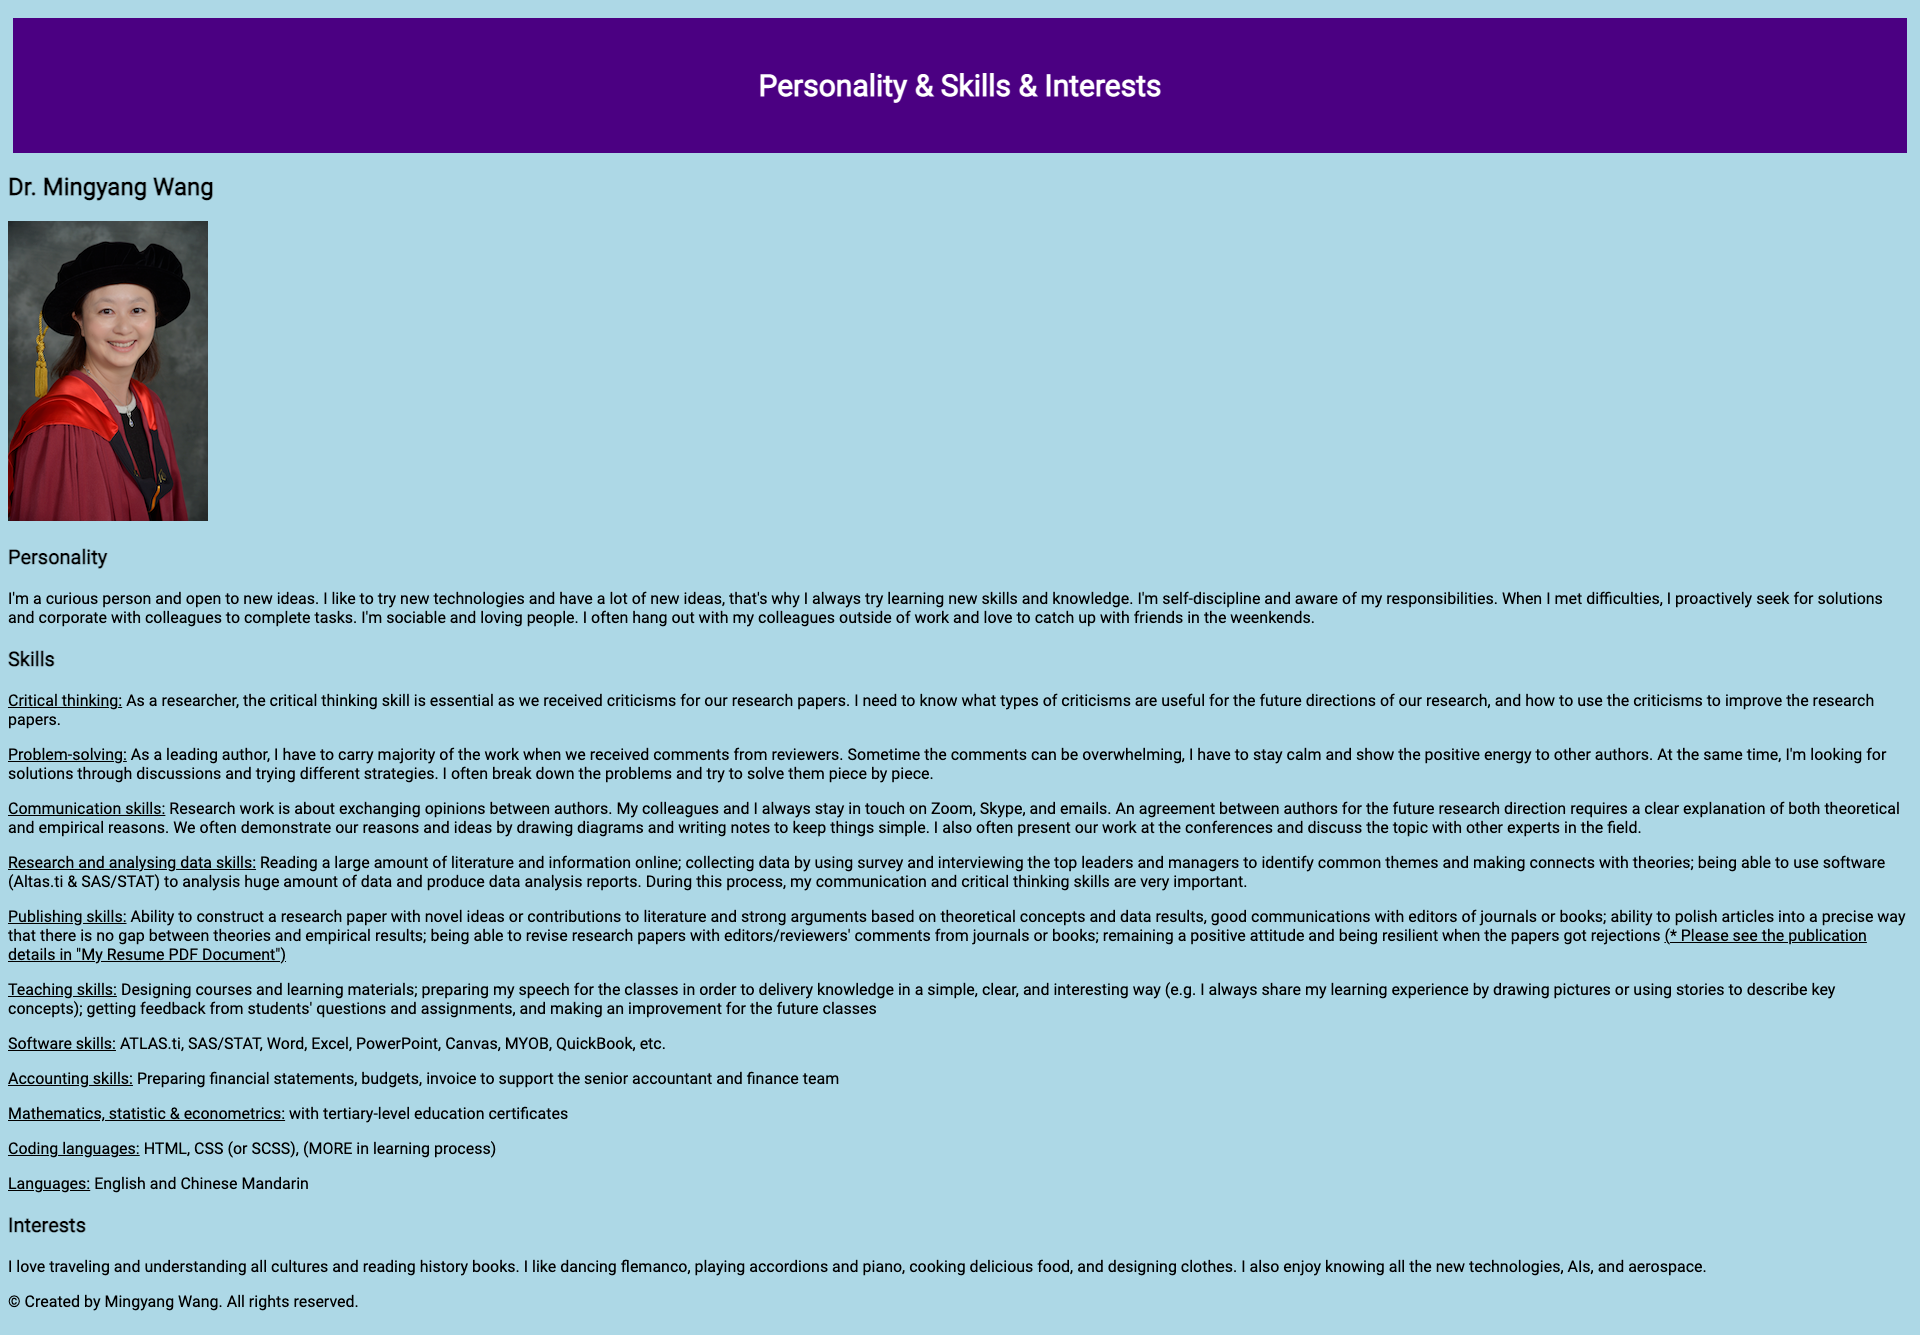
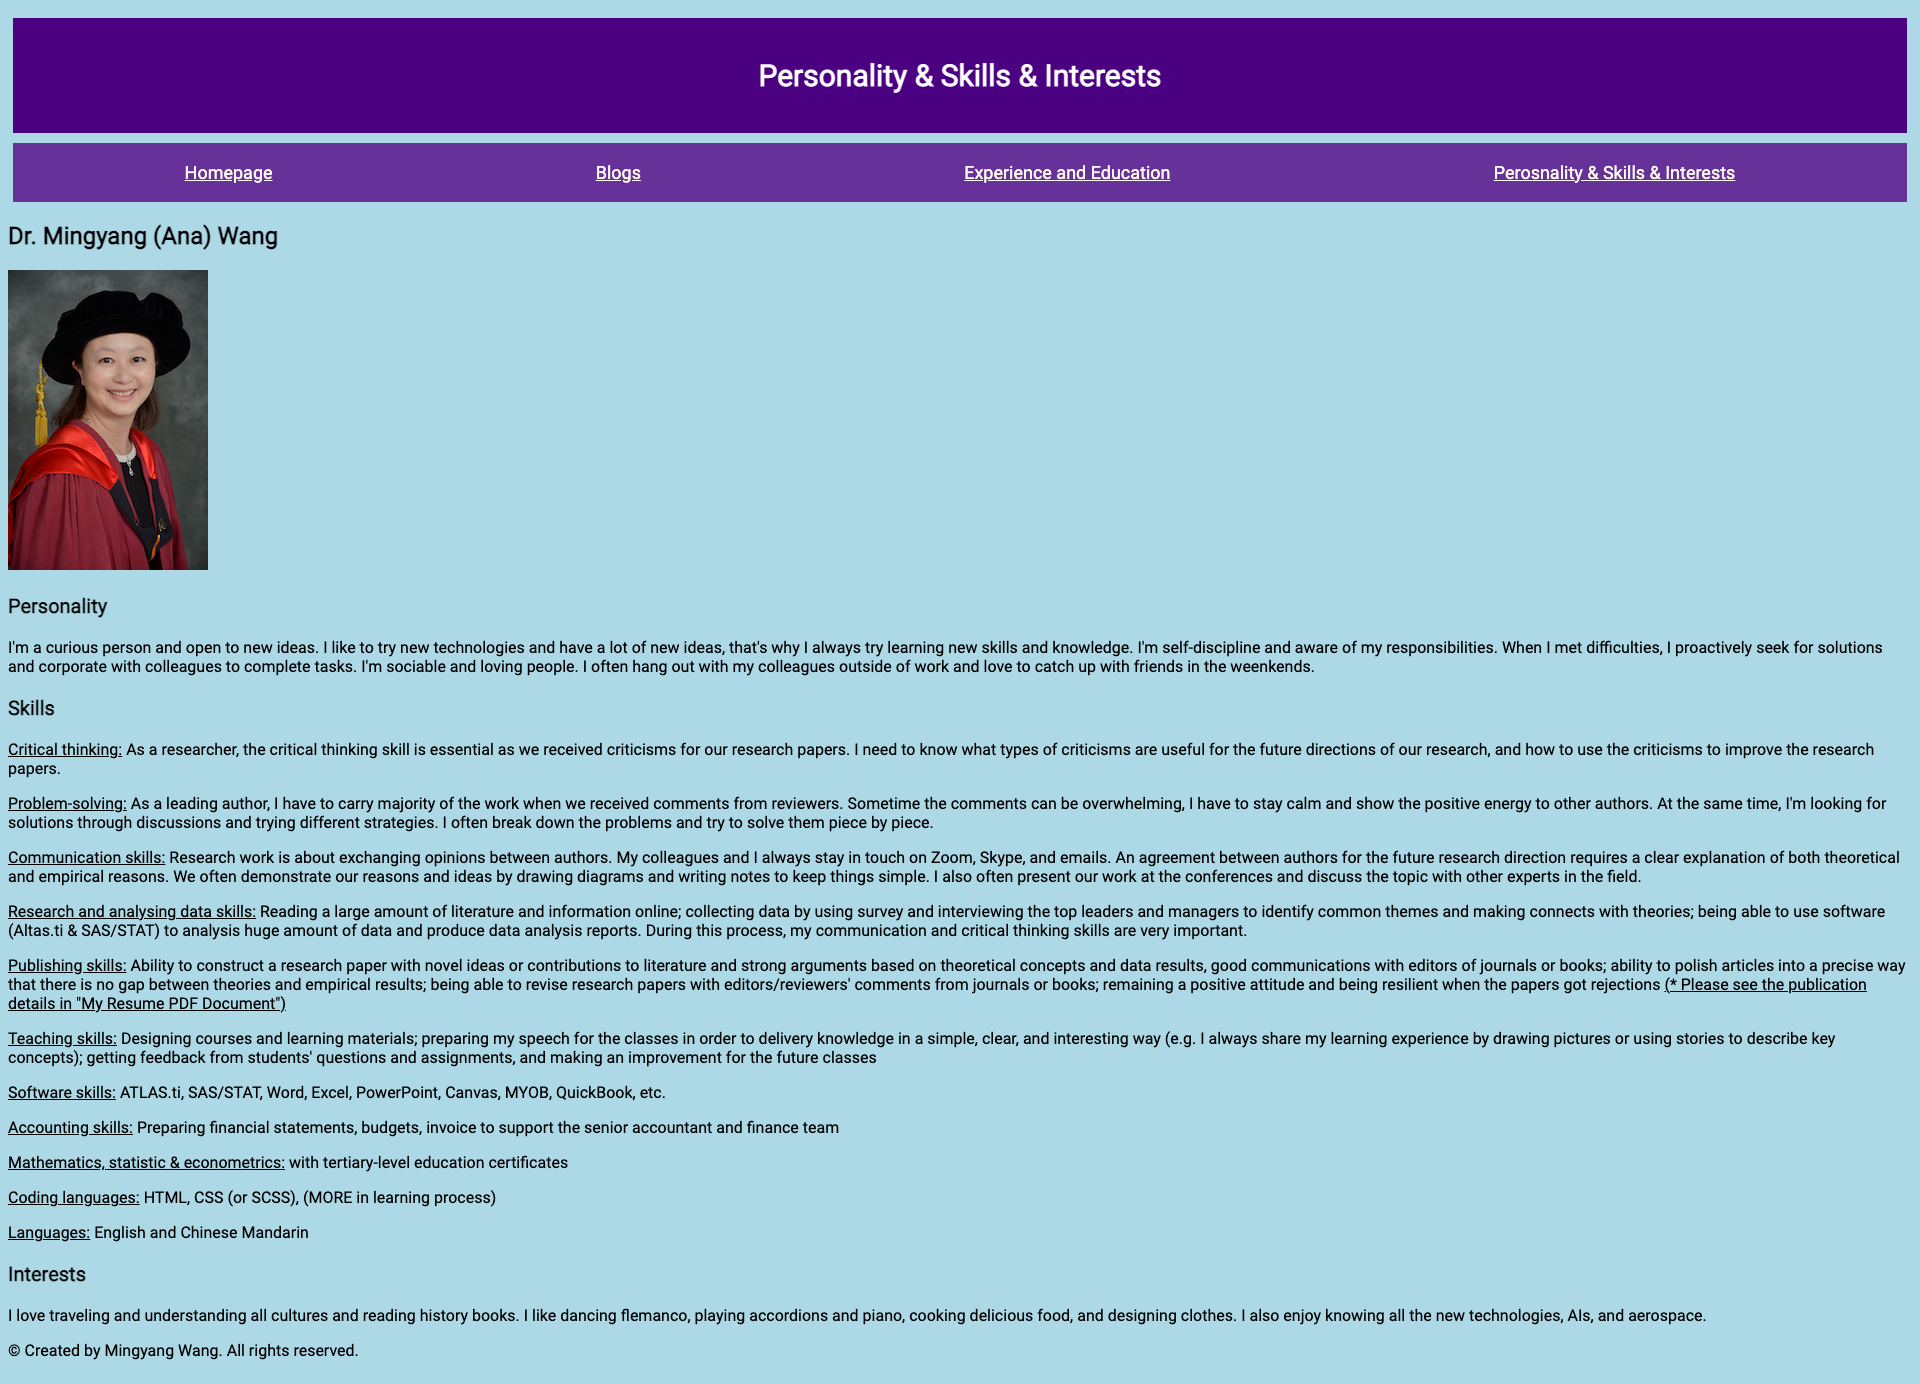
Add files via upload

diff --git a/ExperienceandEducation.html b/ExperienceandEducation.html
@@ -21,12 +21,19 @@
 </head>
 
 <body>
-
   <h1 class="header">Experience and Education</h1>
-  <h2>Dr. Mingyang Wang</h2>
+  <nav class="topnav">
+    <a href="portfoliohomepage.html">Homepage</a>
+    <a href="Blog.html">Blogs</a>
+    <a href="ExperienceandEducation.html">Experience and Education</a>
+    <a href="PersonalitySkillsInterests.html">Perosnality & Skills & Interests</a>
+  </nav>
+  <!-- These links help to go back to homepage or other webpages. -->
+
+  <h2>Dr. Mingyang (Ana) Wang</h2>
   <picture>
     <source srcset="MingyangWang.png" media="(min-width: 801px)"/>
-     <img alt="Mingyang Wang" src="MingyangWangsmall.png"/>
+     <img class="portrait" alt="Mingyang Wang" src="MingyangWangsmall.png"/>
    </picture>
    <!-- I created an image with a responsive layout. And I also used "alt" attribute to specify an alternate text for an image, if the image cannot be displayed. -->
  
@@ -57,7 +64,7 @@
        <h5>Strategic Management</h5>
         <p class="paragraph" tabindex="0">Thesis Title: “The Role of Intuitive and Analytical Decision-Making in Entrepreneurial Opportunity Recognition”
           <br>
-          The purpose of this thesis was to examine how entrepreneurial firms combine the use of intuitive and analytical decision-making to recognize opportunities. It was a multiple-case study using an interpretive paradigm. Forty-eight interviews were conducted in eight software companies, and analysed by comparing founders’ and managers’ decision-making processes. The grounded theoretical model of dynamic intuitive-analytic capabilities extends the literatures of dynamic capabilities, intuition, product innovation, and entrepreneurial opportunity, and helps to answer one of the most commonly asked questions in the field of entrepreneurship: why some entrepreneurial companies are more successful than others.
+          The purpose of this thesis was to examine how entrepreneurial firms combine the use of intuitive and analytical decision-making to recognize opportunities. It was a multiple-case study using an interpretive paradigm. Forty-eight interviews were conducted in eight software companies, and analysed by comparing founders’ and managers’ decision-making processes. The grounded theoretical model of dynamic intuitive-analytic capabilities extends the literatures of dynamic capabilities, intuition, dual process theory, product innovation, and entrepreneurial opportunity, and helps to answer one of the most commonly asked questions in the field of entrepreneurship: why some entrepreneurial companies are more successful than others.
         </p>
 
 

diff --git a/portfoliohomepage.css b/portfoliohomepage.css
@@ -15,15 +15,20 @@ body {
   body {
     font-size: 20px;
   }
+/* Anytime the screen is underneath of 600px width, the font-size will be 20px */
+
   .topnav a {
     width: 100%;
     float: none;
   }
+/* Anytime the screen is underneath of 600px width, the links of the navigation bar will become a column line. */
 
   .sidebar {
     max-width: 150px;
     height: 100%;
+    margin-left: 100px;
   }
+/* Anytime the screen is underneath of 600px width,  the sidebar will change the shape and to the margin-left 100px. */
 
   .sidebar a {
     width: 100%;
@@ -31,8 +36,24 @@ body {
     float: none;
     margin-left: 60px;
   }
+/* Anytime the screen is underneath of 600px width, the icon links of the sidebar will be vertical. */
+
+  .portrait{
+    margin-left: 150px;
+  }
+/* Anytime the screen is underneath of 600px width, the image will change to the margin-left 150px. */
+
+  h1{
+    margin-left: 100px;
+  }
+/* Anytime the screen is underneath of 600px width, the heading 1 will change to the margin-left 100px. */
+
+  h2{
+    margin-left: 70px;
+  }
+  /* Anytime the screen is underneath of 600px width, the heading 2 will change to the margin-left 70px. */
 }
-/* Anytime the screen is underneath of 600px width, the font-size will be 20px, the links in the top navigation bar will become a column line, the sidebar will change the shape and the icon links will be vertical. */
+
 
 .topnav {
   background-color: GoldenRod;
@@ -72,7 +93,6 @@ body {
   flex-wrap: wrap;
   justify-content: space-around;
   align-items: center;
-  margin: 25px 30px;
   padding: 5px 10px;
 }
 /* I created a sidebar for my email, GitHub, and Linkedin links and used Flexbox to produce a responsive layout */

diff --git a/ExperienceandEducation.css b/ExperienceandEducation.css
@@ -20,12 +20,28 @@ body {
   body {
     font-size: 20px;
   }
+/* Anytime the screen is underneath of 600px width, the font-size will be 20px */
+
+  .topnav a {
+    width: 100%;
+    float: none;
+  }
+/* Anytime the screen is underneath of 600px width, the links of the navigation bar will become a column line. */
+
+  .portrait{
+    margin-left: 150px;
+  }
+/* Anytime the screen is underneath of 600px width, the image will change to the margin-left 150px. */
+
+  h2{
+    margin-left: 70px;
+  }
+  /* Anytime the screen is underneath of 600px width, the heading 2 will change to the margin-left 70px. */
 }
-/* anytime the screen is underneath of 600px width, the font-size will be 20px */
 
 .header {
-  padding: 50px;
-  background-color: Olive;
+  padding: 40px;
+  background-color: darkgreen;
   color: white;
   font-size: 30px;
   display: flex;
@@ -48,3 +64,32 @@ body {
   text-align: left;
 }
 /* I identified the color and text-align for the copyright symbol */
+
+.topnav {
+  background-color: darkolivegreen;
+  overflow: auto;
+  display: flex;
+  flex-direction: row;
+  flex-wrap: wrap;
+  justify-content: space-around;
+  align-items: center;
+  margin: 10px 5px;
+  padding: 5px 10px;
+}
+/* I added a "darkolivegreen" background color and used Flexbox to the top navigation bar. */
+
+.topnav a {
+  float: left;
+  color: FloralWhite;
+  text-align: center;
+  padding: 14px 16px;
+  font-size: 18px;
+}
+/* I added those styles to the links inside the navigation bar. */
+
+.topnav a:hover {
+  color: DarkBlue;
+}
+/* I changed the "DarkBlue" colour of links on hover. */
+
+

diff --git a/PersonalitySkillsInterests.css b/PersonalitySkillsInterests.css
@@ -24,11 +24,27 @@ body {
   body {
     font-size: 20px;
   }
+/* Anytime the screen is underneath of 600px width, the font-size will be 20px */
+
+  .topnav a {
+    width: 100%;
+    float: none;
+  }
+/* Anytime the screen is underneath of 600px width, the links of the navigation bar will become a column line. */
+
+  .portrait{
+    margin-left: 150px;
+  }
+/* Anytime the screen is underneath of 600px width, the image will change to the margin-left 150px. */
+
+  h2{
+    margin-left: 70px;
+  }
+  /* Anytime the screen is underneath of 600px width, the heading 2 will change to the margin-left 70px. */
 }
-/* anytime the screen is underneath of 600px width, the font-size will be 20px */
 
 .header {
-  padding: 50px;
+  padding: 40px;
   background-color: Indigo;
   color: white;
   font-size: 30px;
@@ -44,3 +60,30 @@ body {
   text-align: left;
 }
 /* I identified the color and text-align for the copyright symbol */
+
+.topnav {
+  background-color: rebeccapurple;
+  overflow: auto;
+  display: flex;
+  flex-direction: row;
+  flex-wrap: wrap;
+  justify-content: space-around;
+  align-items: center;
+  margin: 10px 5px;
+  padding: 5px 10px;
+}
+/* I added a "rebeccapurple" background color and used Flexbox to the top navigation bar. */
+
+.topnav a {
+  float: left;
+  color: FloralWhite;
+  text-align: center;
+  padding: 14px 16px;
+  font-size: 18px;
+}
+/* I added those styles to the links inside the navigation bar. */
+
+.topnav a:hover {
+  color: lightcoral;
+}
+/* I changed the "LightCoral" colour of links on hover. */

diff --git a/Blog.css b/Blog.css
@@ -1,5 +1,5 @@
 body {
-  background-color: DarkOliveGreen;
+  background-color: darkolivegreen;
   color: Ivory;
   font-family: "Roboto", sans-serif;
 }
@@ -9,12 +9,17 @@ body {
   body {
     font-size: 20px;
   }
+
+  .topnav a {
+    width: 100%;
+    float: none;
+  }
 }
-/* anytime the screen is underneath of 600px width, the font-size will be 20px */
+/* anytime the screen is underneath of 600px width, the font-size will be 20px and the links in the navigation bar will be in the column. */
 
 .header {
-  padding: 50px;
-  background: DarkSlateBlue;
+  padding: 40px;
+  background: steelblue;
   color: white;
   font-size: 30px;
   display: flex;
@@ -35,3 +40,30 @@ text{
   font-weight:bold;
 }
 /* I changed the font size and color for the SVG text "The List of Block Post". */
+
+.topnav {
+  background-color: lightcoral;
+  overflow: auto;
+  display: flex;
+  flex-direction: row;
+  flex-wrap: wrap;
+  justify-content: space-around;
+  align-items: center;
+  margin: 10px 5px;
+  padding: 5px 10px;
+}
+/* I added a "LightCoral" background color and used Flexbox to the top navigation bar. */
+
+.topnav a {
+  float: left;
+  color: FloralWhite;
+  text-align: center;
+  padding: 14px 16px;
+  font-size: 18px;
+}
+/* I added those styles to the links inside the navigation bar. */
+
+.topnav a:hover {
+  color: lavender;
+}
+/* I changed the "Lavender" colour of links on hover. */

diff --git a/PersonalitySkillsInterests.html b/PersonalitySkillsInterests.html
@@ -24,10 +24,18 @@
 <body>
   <section>
     <h1 class="header"> Personality & Skills & Interests</h1>
-    <h2>Dr. Mingyang Wang</h2>
+    <nav class="topnav">
+      <a href="portfoliohomepage.html">Homepage</a>
+      <a href="Blog.html">Blogs</a>
+      <a href="ExperienceandEducation.html">Experience and Education</a>
+      <a href="PersonalitySkillsInterests.html">Perosnality & Skills & Interests</a>
+    </nav>
+    <!-- These links help to go back to homepage or other webpages. -->
+
+    <h2>Dr. Mingyang (Ana) Wang</h2>
     <picture>
       <source srcset="MingyangWang.png" media="(min-width: 801px)"/>
-       <img alt="Mingyang Wang" src="MingyangWangsmall.png"/>
+       <img class="portrait" alt="Mingyang Wang" src="MingyangWangsmall.png"/>
      </picture>
      <!-- I created an image with a responsive layout. And I also used "alt" attribute to specify an alternate text for an image, if the image cannot be displayed. -->
    

diff --git a/Blog.html b/Blog.html
@@ -22,6 +22,13 @@
 
 <body>
   <h1 class="header">Blog Posts</h1>
+  <nav class="topnav">
+    <a href="portfoliohomepage.html">Homepage</a>
+    <a href="Blog.html">Blogs</a>
+    <a href="ExperienceandEducation.html">Experience and Education</a>
+    <a href="PersonalitySkillsInterests.html">Perosnality & Skills & Interests</a>
+  </nav>
+  <!-- These links help to go back to homepage or other webpages. -->
 
   <svg viewBox="0 0 200 200" width="90" height="90" xmlns="http://www.w3.org/2000/svg">
     <circle cx="100" cy="100" fill="yellow" r="78" stroke="black" stroke-width="3" />

diff --git a/portfoliohomepage.html b/portfoliohomepage.html
@@ -38,7 +38,7 @@
     <h1> My Portfolio </h1>
     <picture>
       <source srcset="MingyangWang.png" media="(min-width: 801px)"/>
-       <img alt="Mingyang Wang" src="MingyangWangsmall.png"/>
+       <img class="portrait" palt="Mingyang Wang" src="MingyangWangsmall.png"/>
      </picture>
      <!-- I created an image with a responsive layout. And I also used "alt" attribute to specify an alternate text for an image, if the image cannot be displayed. -->
    

diff --git a/README.md b/README.md
@@ -19,13 +19,13 @@ displaying favicons next to the page titles in the browser tabs
 
 The key contents and features for each webpage
 1. Homepage:
-Navigation bar for links (with pseudo-class selector a:hover) to all website pages & A portrait photography & Name & Professional positions & Sidebars for icon links to an email and professional accounts 
+Navigation bar for links (with pseudo-class selector a:hover) to all website pages & A heading & A portrait photography & Name & Professional positions & Sidebars for icon links to an email and professional accounts & Copyright a website at the footer
 2. Blog Posts:
-A list of blog posts with titles and date published (with SVG graphic and text) & A blog with five sample posts and their images
+A heading on the header & Navigation bar for links (with pseudo-class selector a:hover) to all website pages & A list of blog posts with titles and date published (with SVG graphic and text) & A blog with five sample posts and their images & Copyright a website at the footer
 3. Experience and Education:
-A portrait photography with name & Content about my experience and education history & A link to a PDF resume
+A heading on the header & Navigation bar for links (with pseudo-class selector a:hover) to all website pages & A portrait photography with name & Content about my experience and education history & A link to a PDF resume & Copyright a website at the footer
 4. Personality, Skills, and Interests:
-A portrait photography with name & Content about my experience and education history
+A heading on the header & Navigation bar for links (with pseudo-class selector a:hover) to all website pages & A portrait photography with name & Content about my experience and education history & Copyright a website at the footer
 
 ### Sitemap
 ![Sitemap](Sitemap.png)
